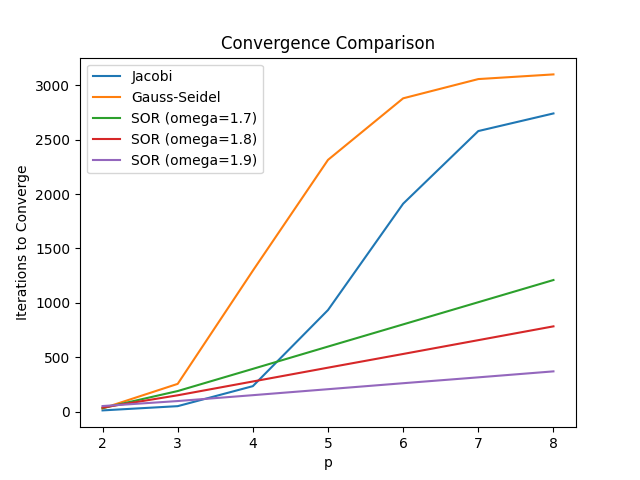
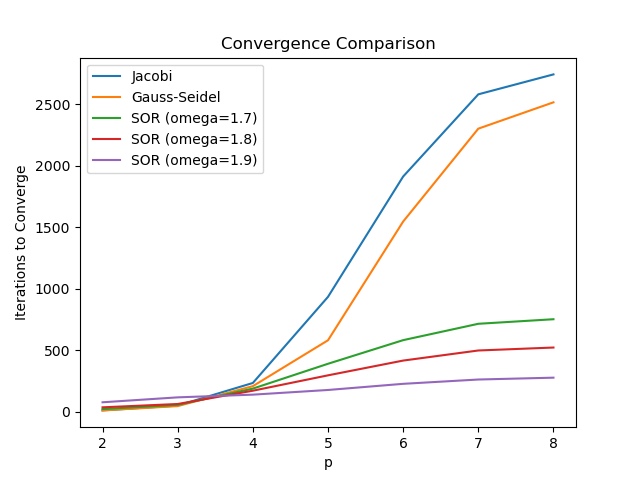
Fixed parity issues

diff --git a/src/SOR.py b/src/SOR.py
@@ -26,37 +26,33 @@ def sor_simulation(omega: float, grid: np.ndarray, max_iter: int, N: int, tol: f
     """
     history = [grid.copy()]
     for t in range(1, max_iter + 1):
-        diff = 0.0
-
-        # Update interior points
-        for i in range(1, N):
-            for j in range(N):
+        for j in range(1, N):
+            for i in range(N+1):
                 old = grid[i, j]
-                # Periodic boundary for x-direction, non-periodic for y
-                left = grid[i, (j - 1) % N]
-                right = grid[i, (j + 1) % N]
-                up = grid[i + 1, j]
-                down = grid[i - 1, j]
+                left = grid[(i - 1) % (N + 1), j]
+                right = grid[(i + 1) % (N + 1), j]
+                up = grid[i, j + 1]
+                down = grid[i, j - 1]
 
                 # SOR update
                 grid[i, j] = (1 - omega) * old + (omega / 4) * (up + down + left + right)
-                diff = max(diff, abs(grid[i, j] - old))  # Track max change
+                # diff = max(diff, abs(grid[i, j] - old))  # Track max change
 
-            # Ensure periodicity for the x-boundary
-            grid[i, -1] = grid[i, 0]
+        #     # Ensure periodicity for the x-boundary
+        #     grid[i, -1] = grid[i, 0]
 
-        # Reapply fixed boundary conditions
-        grid[0, :] = 0.0   # Bottom: c(x, y=0) = 0
-        grid[N, :] = 1.0   # Top: c(x, y=1) = 1
+        # # Reapply fixed boundary conditions
+        # grid[0, :] = 0.0   # Bottom: c(x, y=0) = 0
+        # grid[N, :] = 1.0   # Top: c(x, y=1) = 1
 
-        # Enforce periodicity for the y boundaries
-        grid[0, N] = grid[0, 0]
-        grid[N, N] = grid[N, 0]
+        # # Enforce periodicity for the y boundaries
+        # grid[0, N] = grid[0, 0]
+        # grid[N, N] = grid[N, 0]
 
-        history.append(grid.copy())
-        if diff < tol:
+        if np.allclose(grid, history[-1], atol=tol):
             print(f"Converged at t = {t}")
             break
+        history.append(grid.copy())
         # if t % 1000 == 0:
         #     print(f"Iteration {t}: max change = {diff}")
 
@@ -64,15 +60,16 @@ def sor_simulation(omega: float, grid: np.ndarray, max_iter: int, N: int, tol: f
 
 if __name__ == '__main__':
     # Parameters
-    N = 100             # Grid size (N+1) x (N+1)
+    N = 50            # Grid size (N+1) x (N+1)
     max_iter = 10000
     tol = 1e-5
     omega = 1.9  # Relaxation factor
     print(f"max_iter: {max_iter}")
 
     grid = np.zeros((N + 1, N + 1))
-    grid[N, :] = 1.0  # Top boundary condition c(x, y=1) = 1
+    grid[:, N] = 1.0  # Top boundary condition c(x, y=1) = 1
     print("Grid shape:", grid.shape)
+    print(grid)
 
     # Run the simulation
     history, t = sor_simulation(omega, grid, max_iter, N, tol)
@@ -80,7 +77,7 @@ if __name__ == '__main__':
     np.save(f'data/SOR_({N}x{N})_{t}.npy', history)
 
     # Plot the final result
-    plt.imshow(history[-1], cmap='inferno', origin='lower')
+    plt.imshow(history[-1].T, cmap='inferno', origin='lower')
     plt.colorbar()
     plt.title(f'SOR Convergence at t = {t}')
     plt.show()

diff --git a/src/gauss_seidel.py b/src/gauss_seidel.py
@@ -10,7 +10,7 @@ import matplotlib.pyplot as plt
 from numba import jit
 
 @jit(nopython=True)
-def gauss_seidel_simulation(grid: np.ndarray, max_iter: int, tol: float, N: int):
+def gauss_seidel_simulation(grid: np.ndarray, max_iter: int, N: int, tol: float):
     """
     Runs the Gauss-Seidel iterative method for solving Laplace's equation.
 
@@ -25,33 +25,22 @@ def gauss_seidel_simulation(grid: np.ndarray, max_iter: int, tol: float, N: int)
     """
     history = [grid.copy()]
     for t in range(1, max_iter + 1):
-        diff = 0.0
-
-        for i in range(1, N):
-            for j in range(N + 1):
-                old = grid[i, j]
-                left = grid[i, (j - 1) % (N + 1)]
-                right = grid[i, (j + 1) % (N + 1)]
-                up = grid[i + 1, j]
-                down = grid[i - 1, j]
+        for j in range(1, N):
+            for i in range(N + 1):
+                left = grid[(i - 1) % (N + 1), j]
+                right = grid[(i + 1) % (N + 1), j]
+                up = grid[i, j + 1]
+                down = grid[i, j - 1]
 
                 # Gauss-Seidel update
                 grid[i, j] = 0.25 * (up + down + left + right)
 
-            # Ensure periodicity for the x-boundary (rightmost column)
-            grid[i, N] = grid[i, 0]
-
-        # Apply fixed y-boundary conditions
-        grid[0, :] = 0.0
-        grid[N, :] = 1.0
 
         # Check for convergence
         if np.allclose(grid, history[-1], atol=tol):
             print(f"Converged at t = {t}")
             break
         history.append(grid.copy())
-        # if t % 1000 == 0:
-        #     print(f"Iteration {t}")
 
     return history, t
 
@@ -59,21 +48,22 @@ if __name__ == '__main__':
     # Parameters
     N = 50  # Grid size
     max_iter = 1_000_000  # Maximum iterations
-    tol = 1e-2  # Convergence tolerance
+    tol = 1e-5  # Convergence tolerance
     print(f"max_iter: {max_iter}")
 
     # Create a 2D grid
     grid = np.zeros((N + 1, N + 1))
-    grid[N, :] = 1.0  # Top boundary condition c(x, y=1) = 1
+    grid[:, N] = 1.0  # Top boundary condition c(x, y=1) = 1
     print("Grid shape:", grid.shape)
+    print(grid)
 
     # Run the simulation
-    history, t = gauss_seidel_simulation(grid, max_iter, tol, N)
+    history, t = gauss_seidel_simulation(grid, max_iter, N, tol)
     history = np.array(history)
     np.save(f'data/gauss-seidel_({N}x{N})_{t}.npy', history)
 
     # Plot the final result
-    plt.imshow(history[-1], cmap='inferno', origin='lower')
+    plt.imshow(history[-1].T, cmap='inferno', origin='lower')
     plt.colorbar()
     plt.title(f'Gauss-Seidel Convergence at t = {t}')
     plt.show()

diff --git a/src/jacobi.py b/src/jacobi.py
@@ -24,17 +24,10 @@ def jacobi_simulation(grid: np.ndarray, max_iter: int, N: int, tol: float):
     tuple: (history, t) where history is a list of grid states and t is the iteration count.
     """
     history = [grid.copy()]
-    history = [grid.copy()]
     for t in range(1, max_iter + 1):
-        prev = history[-1]
         prev = history[-1]
         for i in range(N + 1):
             for j in range(1, N):
-                grid[i, j] = 0.25 * (
-                    prev[(i + 1) % (N + 1), j] +
-                    prev[(i - 1) % (N + 1), j] +
-                    prev[i, j + 1] +
-                    prev[i, j - 1])
                 grid[i, j] = 0.25 * (
                     prev[(i + 1) % (N + 1), j] +
                     prev[(i - 1) % (N + 1), j] +
@@ -49,25 +42,21 @@ def jacobi_simulation(grid: np.ndarray, max_iter: int, N: int, tol: float):
 
         history.append(grid.copy())  # Store the current state in history
         print(f"t: {t}")
-        history.append(grid.copy())  # Store the current state in history
-        # print(f"t: {t}")
 
     return history, t
 
 
 if __name__ == '__main__':
     # Parameters
-    N = 100  # Grid size
+    N = 50  # Grid size
     max_iter = 1_000_000  # Maximum iterations
     tol = 1e-5  # Convergence tolerance
     print(f"max_iter: {max_iter}")
 
     grid = np.zeros((N + 1, N + 1))
     grid[:, N] = 1.0  # Set top boundary condition c(x, y=1) = 1
-    grid = np.zeros((N + 1, N + 1))
-    grid[:, N] = 1.0  # Set top boundary condition c(x, y=1) = 1
+
     print("Grid shape:", grid.shape)
-    print("Initial grid: \n", grid)
     print("Initial grid: \n", grid)
 
     # Run the simulation

diff --git a/src/convergence_measure.py b/src/convergence_measure.py
@@ -33,7 +33,7 @@ if __name__ == '__main__':
         jacobi.append(t_jacobi)
 
         grid = init_grid()
-        h_gauss, t_gauss = gauss_seidel_simulation(grid, max_iter, tol, N)
+        h_gauss, t_gauss = gauss_seidel_simulation(grid, max_iter, N, tol)
         gauss.append(t_gauss)
 
         for omega in omega_values:
